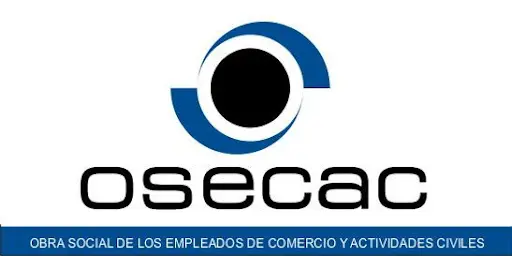
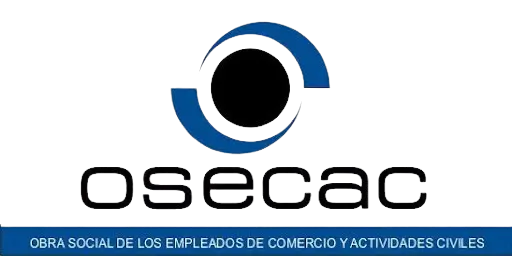
optimizing images

diff --git a/src/const.js b/src/const.js
@@ -74,88 +74,88 @@ export const SEDES = [
 export const OBRAS_SOCIALES = [
   {
     name: 'ASE',
-    logo: 'src/assets/os/ase.webp'
+    logo: '/src/assets/os/ase.webp'
   },
 
   {
     name: 'INCLUIR SALUD',
-    logo: 'src/assets/os/incluir.webp'
+    logo: '/src/assets/os/incluir.webp'
   },
   {
     name: 'INSSSEP',
-    logo: 'src/assets/os/insssep.webp'
+    logo: '/src/assets/os/insssep.webp'
   },
   {
     name: 'IOSFA',
-    logo: 'src/assets/os/iosfa.webp'
+    logo: '/src/assets/os/iosfa.webp'
   },
 
   {
     name: 'JERÁRQUICOS',
-    logo: 'src/assets/os/jerarquicos.webp'
+    logo: '/src/assets/os/jerarquicos.webp'
   },
   {
     name: 'OSFE',
-    logo: 'src/assets/os/osfe.webp'
+    logo: '/src/assets/os/osfe.webp'
   },
   {
     name: 'OSDE',
-    logo: 'src/assets/os/osde.webp'
+    logo: '/src/assets/os/osde.webp'
   },
   {
     name: 'OSDEPYM',
-    logo: 'src/assets/os/osdepym.webp'
+    logo: '/src/assets/os/osdepym.webp'
   },
   {
     name: 'OSECAC',
-    logo: 'src/assets/os/osecac.webp'
+    logo: '/src/assets/os/osecac.webp'
   },
   {
     name: 'OSFATLYF',
-    logo: 'src/assets/os/osfatlyf.webp'
+    logo: '/src/assets/os/osfatlyf.webp'
   },
   {
     name: 'OSIAD',
-    logo: 'src/assets/os/osiad.webp'
+    logo: '/src/assets/os/osiad.webp'
   },
 
   {
     name: 'OSPEGAP',
-    logo: 'src/assets/os/ospegap.webp'
+    logo: '/src/assets/os/ospegap.webp'
   },
   {
     name: 'OSPIDA',
-    logo: 'src/assets/os/ospida.webp'
+    logo: '/src/assets/os/ospida.webp'
   },
 
   {
     name: 'OSPLAD',
-    logo: 'src/assets/os/osplad.webp'
+    logo: '/src/assets/os/osplad.webp'
   },
   {
     name: 'OSPRERA',
-    logo: 'src/assets/os/osprera.webp'
+    logo: '/src/assets/os/osprera.webp'
   },
   {
     name: 'OSPTV',
-    logo: 'src/assets/os/osptv.webp'
+    logo: '/src/assets/os/osptv.webp'
   },
   {
     name: 'SANCOR',
-    logo: 'src/assets/os/sancor.webp'
+    logo: '/src/assets/os/sancor.webp'
   },
 
   {
     name: 'SPF',
-    logo: 'src/assets/os/spf.webp'
+    logo: '/src/assets/os/spf.webp'
   },
   {
     name: 'UNION PERSONAL',
-    logo: 'src/assets/os/unionpersonal.webp'
+    logo: '/src/assets/os/unionpersonal.webp'
   },
   {
     name: 'GALENO',
-    logo: 'src/assets/os/galeno.webp'
+    logo: '/src/assets/os/galeno.webp'
   }
 
 ]

diff --git a/src/pages/home/ObrasSociales.jsx b/src/pages/home/ObrasSociales.jsx
@@ -13,7 +13,7 @@ export function ObrasSociales () {
 
   return (
     <div className='w-[100%] min-h-[450px] grid grid-cols-1 md:grid-cols-2 items-center bg-backgroundColor p-5 rounded-xl'>
-      <div>
+      <div className=''>
         <h2 className='text-black/70 text-3xl md:text-6xl '>Trabajamos con <span className='text-customOrange'>todas</span> las obras sociales.</h2>
       </div>
 
@@ -28,8 +28,11 @@ export function ObrasSociales () {
                     return (
 
                       item.logo &&
-                        (<li key={index}><img className='md:size-24 size-22 bg-cover rounded-full shadow-sm border-2 border-customOrange/50 bg-white' src={item.logo} alt={`Logo de ${item.name}`} /> </li>)
-
+                        (<li key={index}><div
+                          className='md:h-28 w-28 h-28 bg-contain bg-no-repeat bg-center rounded-full shadow-sm border-2 border-customOrange '
+                          style={{ backgroundImage: `url(${item.logo})` }}
+                                         />
+                        </li>)
                     )
                   })
                 }

diff --git a/src/components/Navbar.jsx b/src/components/Navbar.jsx
@@ -128,9 +128,7 @@ function Navbar ({ logout, isAuthenticated, user }) {
                 )
 
               : (
-                <div className=''>
-                  {isAuthenticated ? authLinks() : guestsLinks()}
-                </div>
+                <div className='' />
                 )
           }
 
